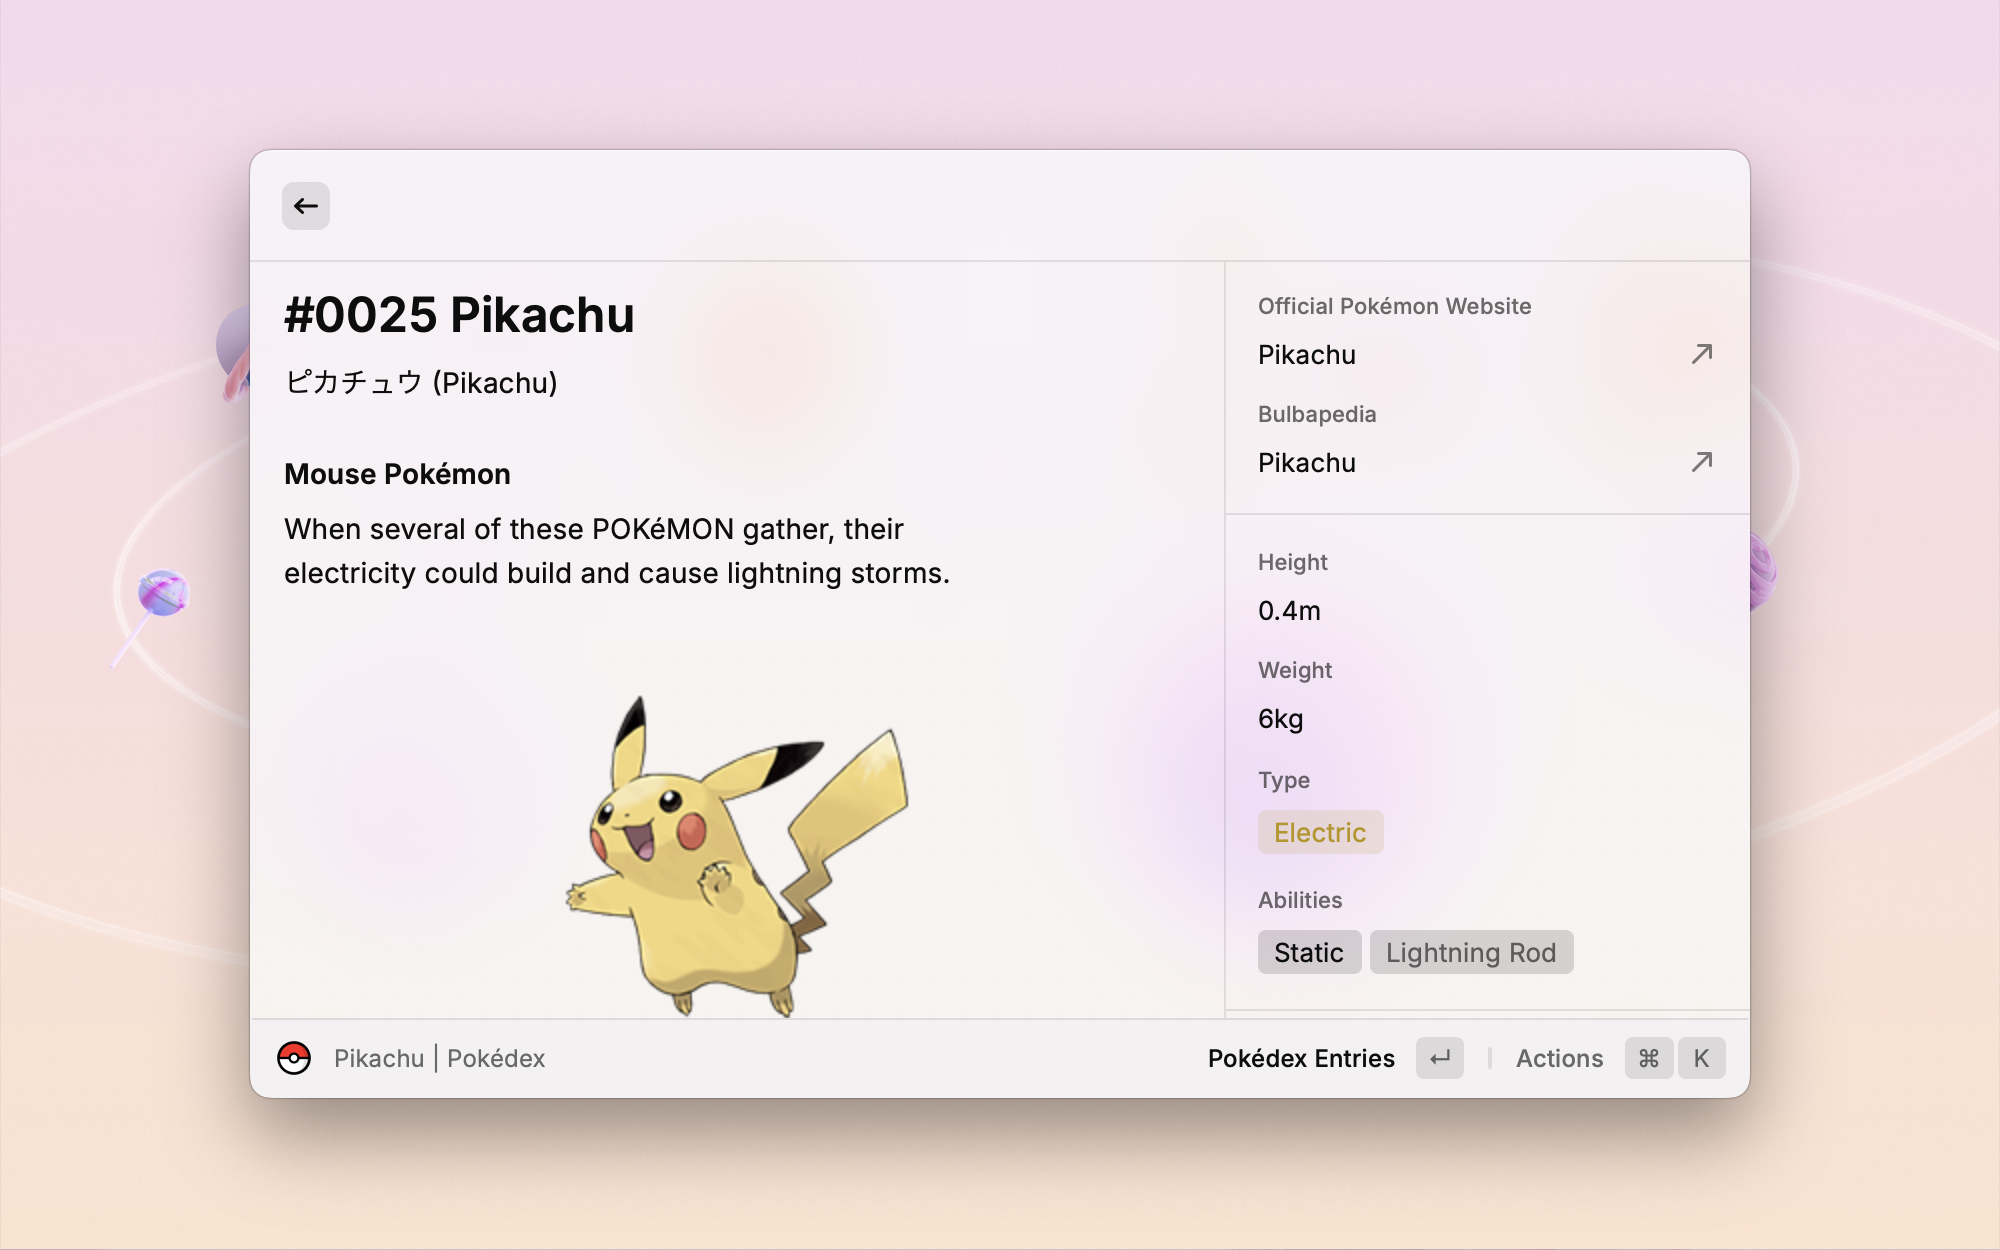
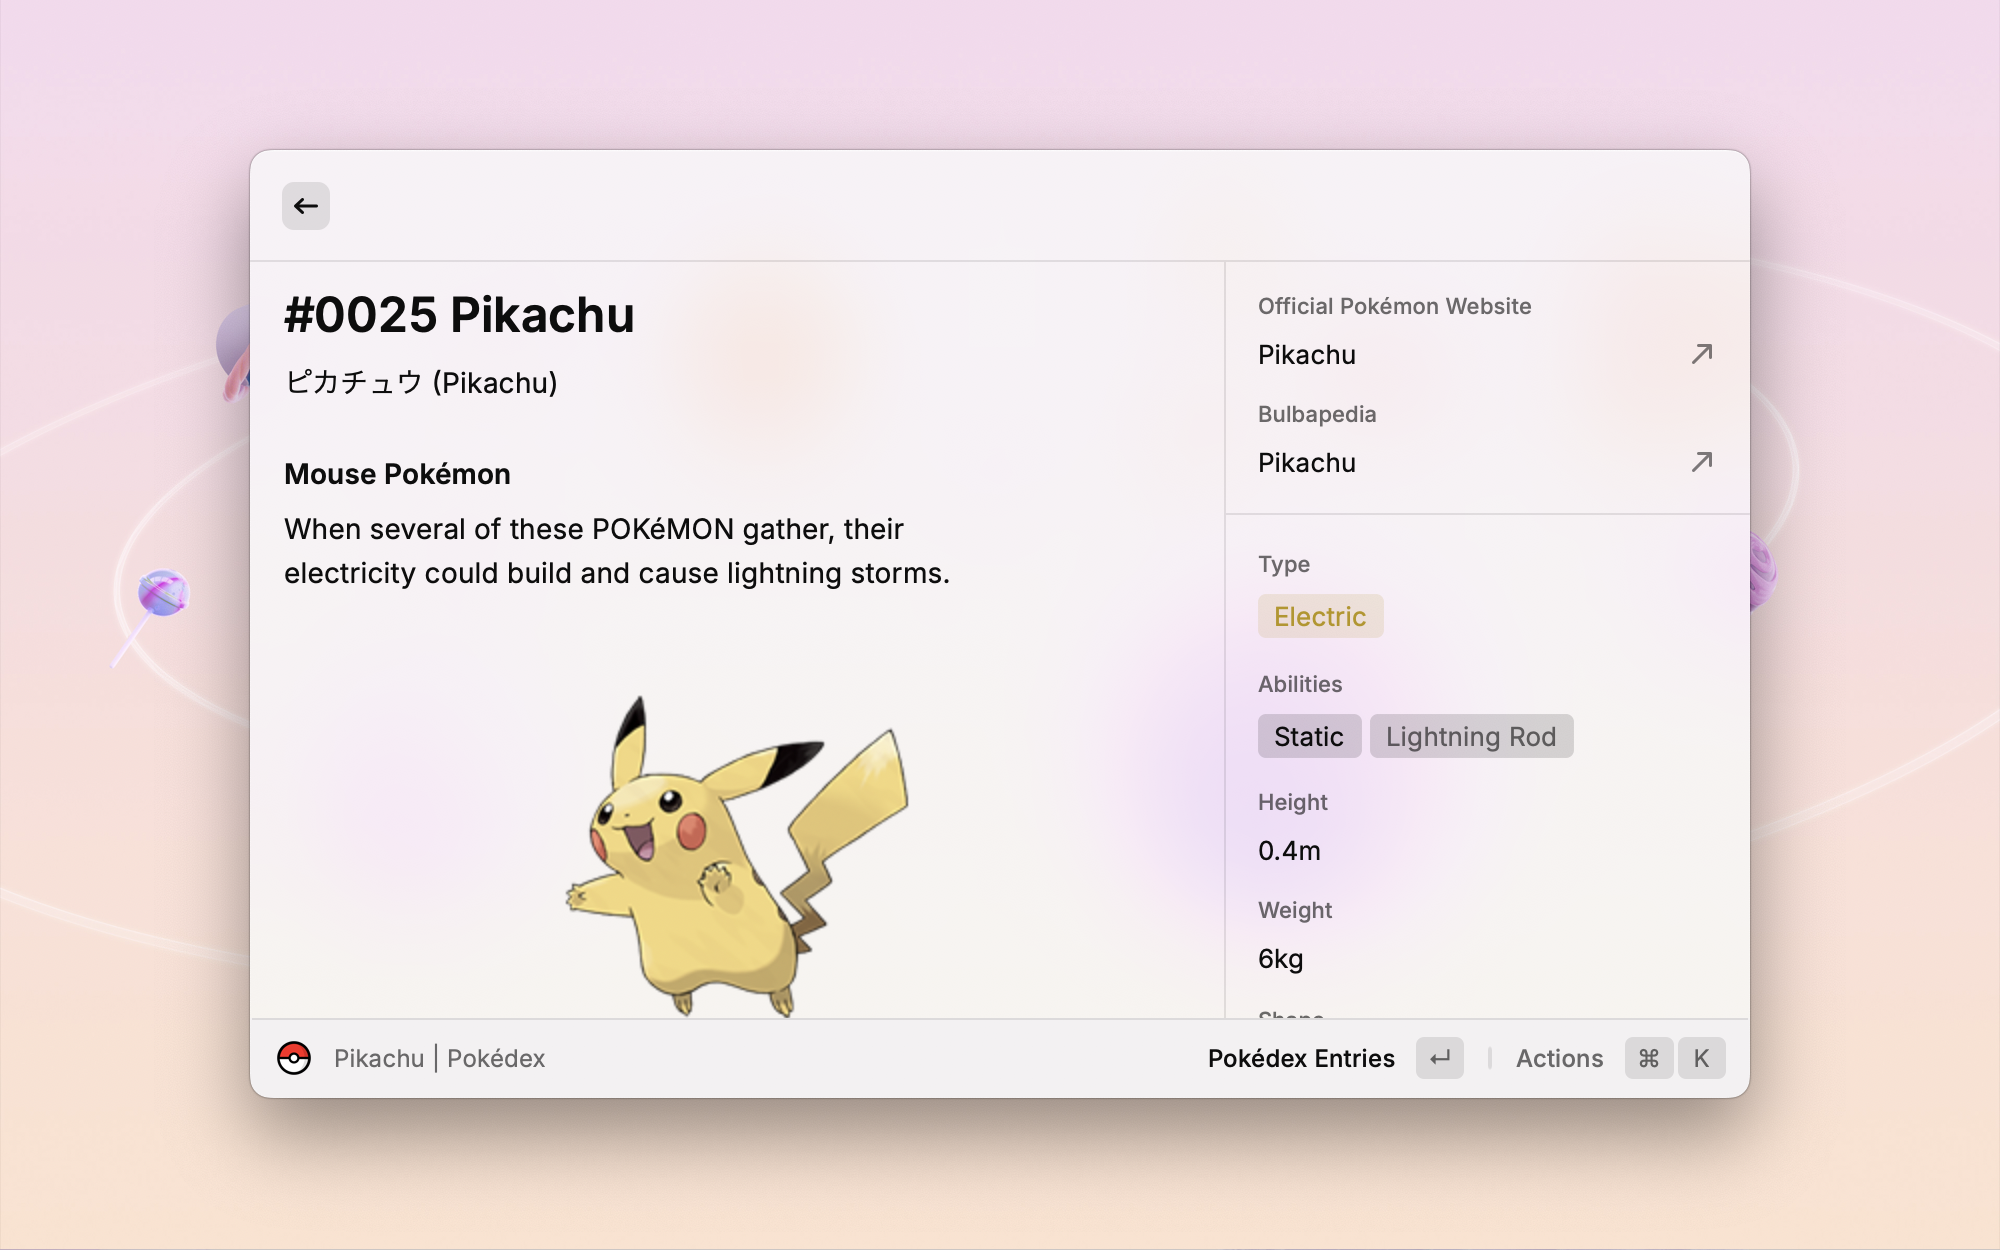
feat: add pokemon shape

Changed region(s): [[0.62, 0.4368, 0.806, 0.6864], [0.62, 0.7176, 0.806, 0.78]]

diff --git a/src/components/metadata/pokemon.tsx b/src/components/metadata/pokemon.tsx
@@ -13,16 +13,6 @@ export default function MetadataPokemon(props: {
     props.type === "detail" ? Detail.Metadata : List.Item.Detail.Metadata;
 
   const meta = [
-    <Metadata.Label
-      key="height"
-      title="Height"
-      text={`${pokemon.height / 10}m`}
-    />,
-    <Metadata.Label
-      key="weight"
-      title="Weight"
-      text={`${pokemon.weight / 10}kg`}
-    />,
     <Metadata.TagList key="type" title="Type">
       {pokemon.pokemon_v2_pokemontypes.map((t) => {
         return (
@@ -48,6 +38,16 @@ export default function MetadataPokemon(props: {
         );
       })}
     </Metadata.TagList>,
+    <Metadata.Label
+      key="height"
+      title="Height"
+      text={`${pokemon.height / 10}m`}
+    />,
+    <Metadata.Label
+      key="weight"
+      title="Weight"
+      text={`${pokemon.weight / 10}kg`}
+    />,
   ];
 
   return meta;

diff --git a/src/components/detail.tsx b/src/components/detail.tsx
@@ -230,6 +230,12 @@ export default function PokemonDetail(props: { id?: number }) {
             />
             <Detail.Metadata.Separator />
             <MetadataPokemon type="detail" pokemon={pokemon} />
+            <Detail.Metadata.Label
+              title="Shape"
+              icon={{
+                source: `body-style/${pokemon.pokemon_v2_pokemonspecy.pokemon_shape_id}.png`,
+              }}
+            />
             <Detail.Metadata.Separator />
             <MetadataWeakness
               type="detail"

diff --git a/src/types/index.ts b/src/types/index.ts
@@ -123,6 +123,7 @@ export interface PokemonV2Pokemonspecy {
   is_legendary: boolean;
   is_mythical: boolean;
   name: string;
+  pokemon_shape_id: number;
   pokemon_v2_pokemondexnumbers: PokemonV2Pokemondexnumber[];
   pokemon_v2_evolutionchain: PokemonV2Evolutionchain;
   pokemon_v2_pokemonegggroups: PokemonV2Pokemonegggroup[];

diff --git a/src/components/form.tsx b/src/components/form.tsx
@@ -104,7 +104,7 @@ export default function PokemonForms(props: {
             ?.name || props.name;
         return (
           <List.Item
-            key={form.pokemon_v2_pokemonforms[0].form_name}
+            key={idx}
             title={name}
             detail={
               <List.Item.Detail

diff --git a/src/api/index.ts b/src/api/index.ts
@@ -135,6 +135,7 @@ export const getPokemon = async (
           is_legendary
           is_mythical
           name
+          pokemon_shape_id
           pokemon_v2_pokemondexnumbers {
             pokedex_number
             pokemon_v2_pokedex {
